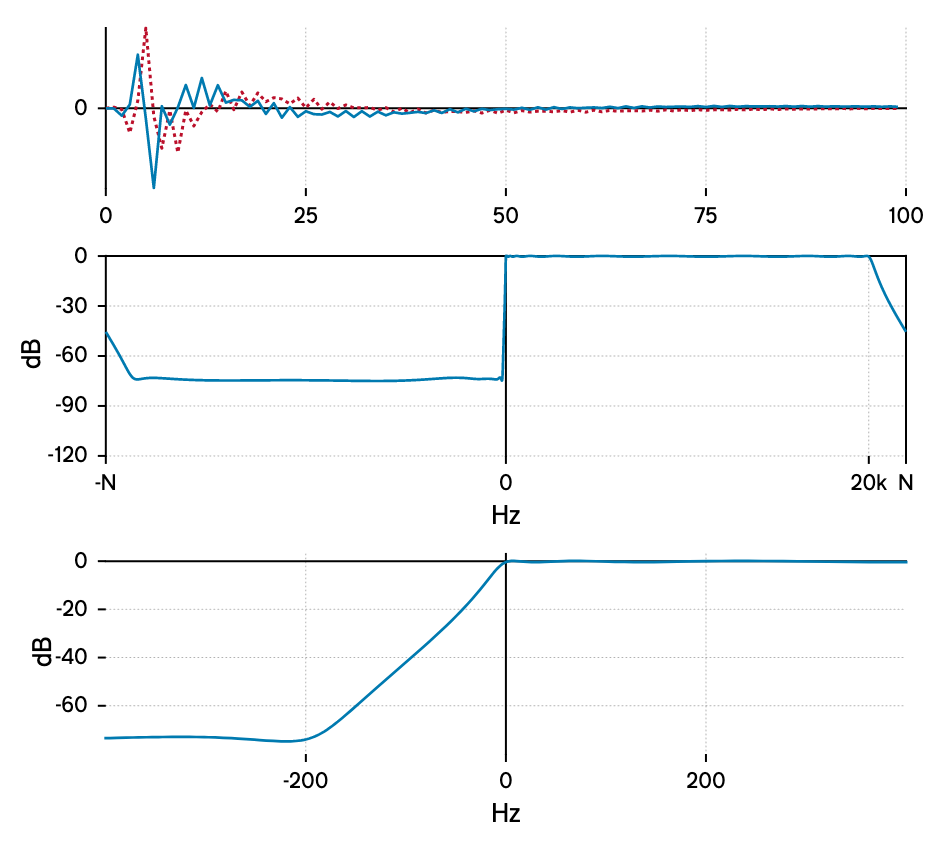
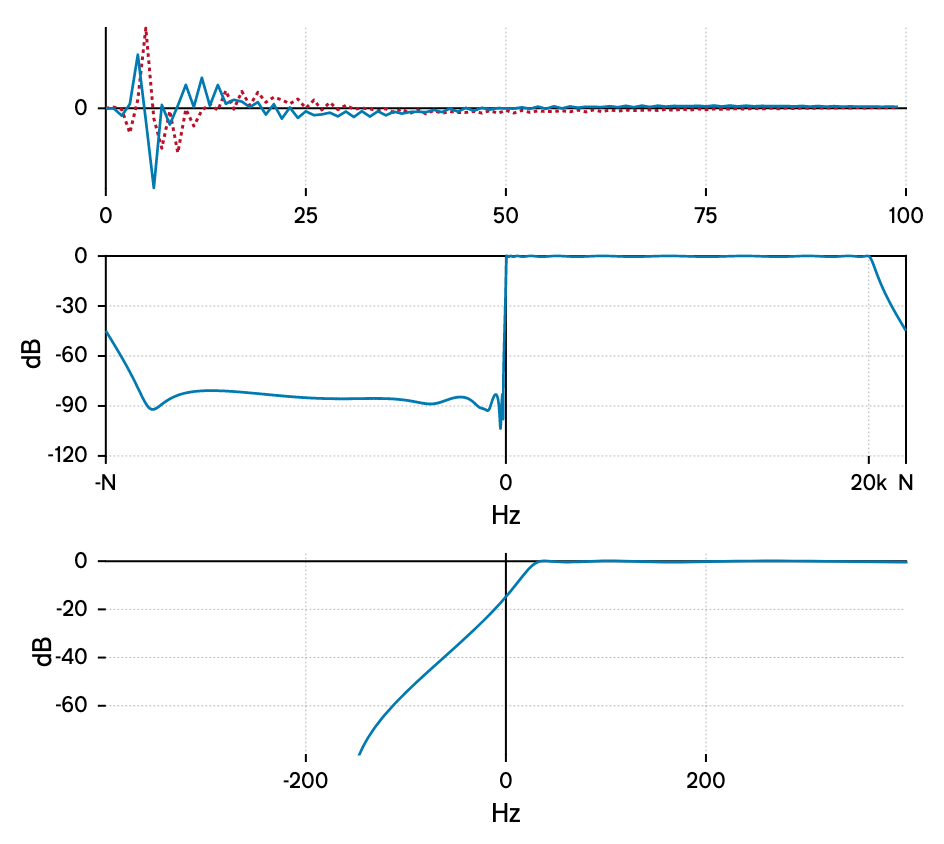
Improved filter design/response

diff --git a/hilbert.h b/hilbert.h
@@ -19,27 +19,27 @@ struct HilbertIIRCoeffs {
 		{Sample(-0.208067578452), Sample(-0.104628958675)},
 		{Sample(0.28717837501), Sample(0.33619239719)},
 		{Sample(-0.254675294431), Sample(-0.683033899655)},
-		{Sample(0.0481081835038), Sample(0.954061589374)},
-		{Sample(0.227861357868), Sample(-0.891273574562)},
-		{Sample(-0.365411839149), Sample(0.525088317279)},
-		{Sample(0.280729061125), Sample(-0.155131206624)},
-		{Sample(-0.0935061787568), Sample(0.00512245855511)}
+		{Sample(0.0481081835026), Sample(0.954061589374)},
+		{Sample(0.227861357867), Sample(-0.891273574569)},
+		{Sample(-0.365411839137), Sample(0.525088317271)},
+		{Sample(0.280729061131), Sample(-0.155131206606)},
+		{Sample(-0.0935061787728), Sample(0.00512245855404)}
 	}};
 	std::array<std::complex<Sample>, order> poles{{
-		{Sample(-0.00495335976478), Sample(-0.000742012312798)},
-		{Sample(-0.017859491302), Sample(0.0173493725543)},
-		{Sample(-0.0413714373155), Sample(0.0644756910287)},
-		{Sample(-0.0882148408885), Sample(0.168349677457)},
-		{Sample(-0.17922965812), Sample(0.38601340223)},
-		{Sample(-0.338261800753), Sample(0.819229533354)},
-		{Sample(-0.557688699732), Sample(1.60298538328)},
-		{Sample(-0.735157736147), Sample(2.78987398682)},
-		{Sample(-0.719057381177), Sample(4.15396166127)},
-		{Sample(-0.517871025196), Sample(5.28724826806)},
-		{Sample(-0.280197469484), Sample(5.98598602386)},
-		{Sample(-0.0852751354486), Sample(6.29484923772)}
+		{Sample(-0.00495335976478), Sample(0.0092579876872)},
+		{Sample(-0.017859491302), Sample(0.0273493725543)},
+		{Sample(-0.0413714373155), Sample(0.0744756910287)},
+		{Sample(-0.0882148408885), Sample(0.178349677457)},
+		{Sample(-0.17922965812), Sample(0.39601340223)},
+		{Sample(-0.338261800753), Sample(0.829229533354)},
+		{Sample(-0.557688699732), Sample(1.61298538328)},
+		{Sample(-0.735157736148), Sample(2.79987398682)},
+		{Sample(-0.719057381172), Sample(4.16396166128)},
+		{Sample(-0.517871025209), Sample(5.29724826804)},
+		{Sample(-0.280197469471), Sample(5.99598602388)},
+		{Sample(-0.0852751354531), Sample(6.3048492377)}
 	}};
-	Sample direct = 3.16372510007e-05;
+	Sample direct = 0.000262057212648;
 };
 
 template<typename Sample>

diff --git a/design/design.py b/design/design.py
@@ -11,6 +11,7 @@ filter_order = 12
 filter_ripple_db = 0.5
 filter_stop_db = 90
 filter_squinch = 0.5
+filter_offset = 0.01; # moves the lower cutoff slightly above 0
 
 #------- Create the filter
 
@@ -22,13 +23,14 @@ filter_p -= numpy.pi*1j
 filter_z /= 1 + filter_z*1j*filter_squinch
 filter_p /= 1 + filter_p*1j*filter_squinch
 K = (1 + numpy.pi*2*filter_squinch)
-filter_z = filter_z*K + numpy.pi*2j
-filter_p = filter_p*K + numpy.pi*2j
+filter_z = filter_z*K + numpy.pi*2j + filter_offset*1j
+filter_p = filter_p*K + numpy.pi*2j + filter_offset*1j
 
 (filter_b, filter_a) = scipy.signal.zpk2tf(filter_z, filter_p, filter_k)
 
 residue_coeffs, residue_poles, residue_direct = scipy.signal.residue(filter_b, filter_a)
 residue_coeffs *= 0.5
+residue_direct *= 2*K
 
 # Write the results out as a C++ class
 print("""template<typename Sample>

diff --git a/design/main.cpp b/design/main.cpp
@@ -56,4 +56,5 @@ int main() {
 	plot(44100);
 	plot(48000);
 	plot(96000);
+	plot(192000);
 }
